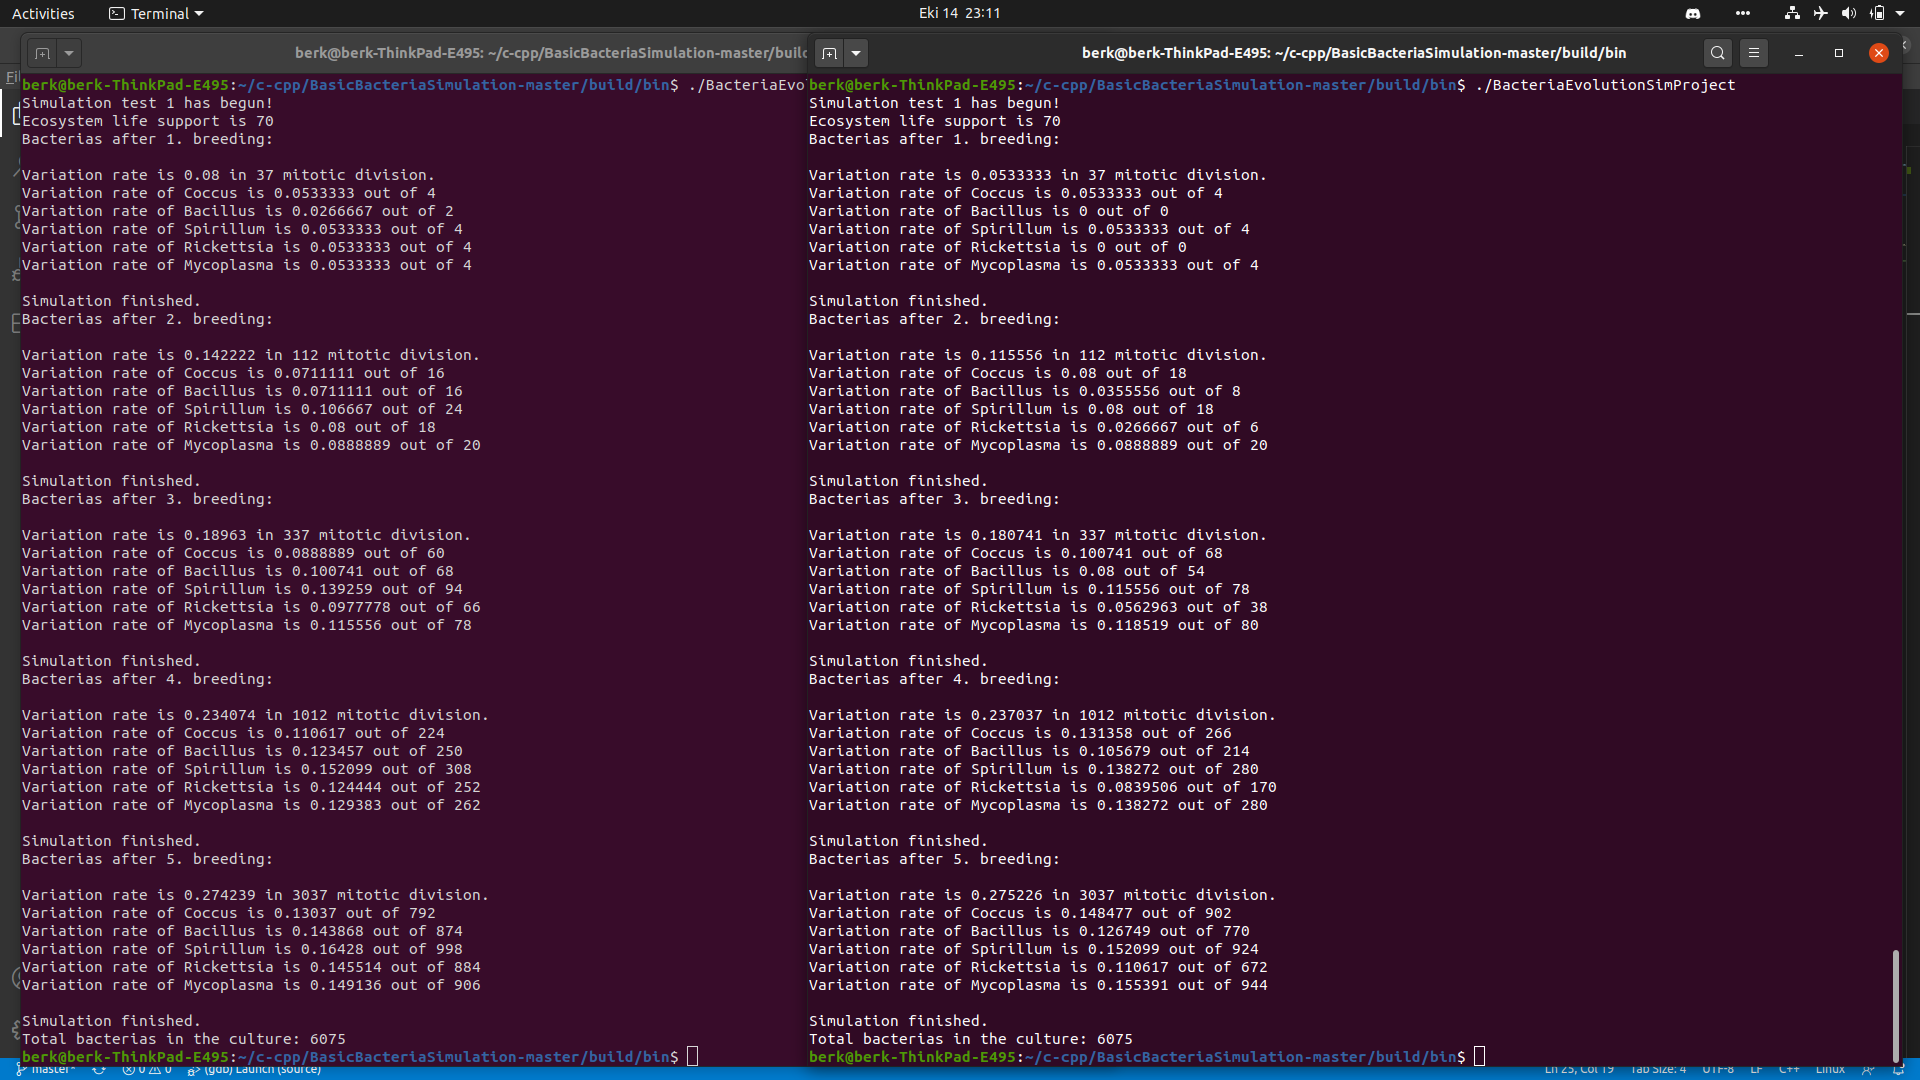
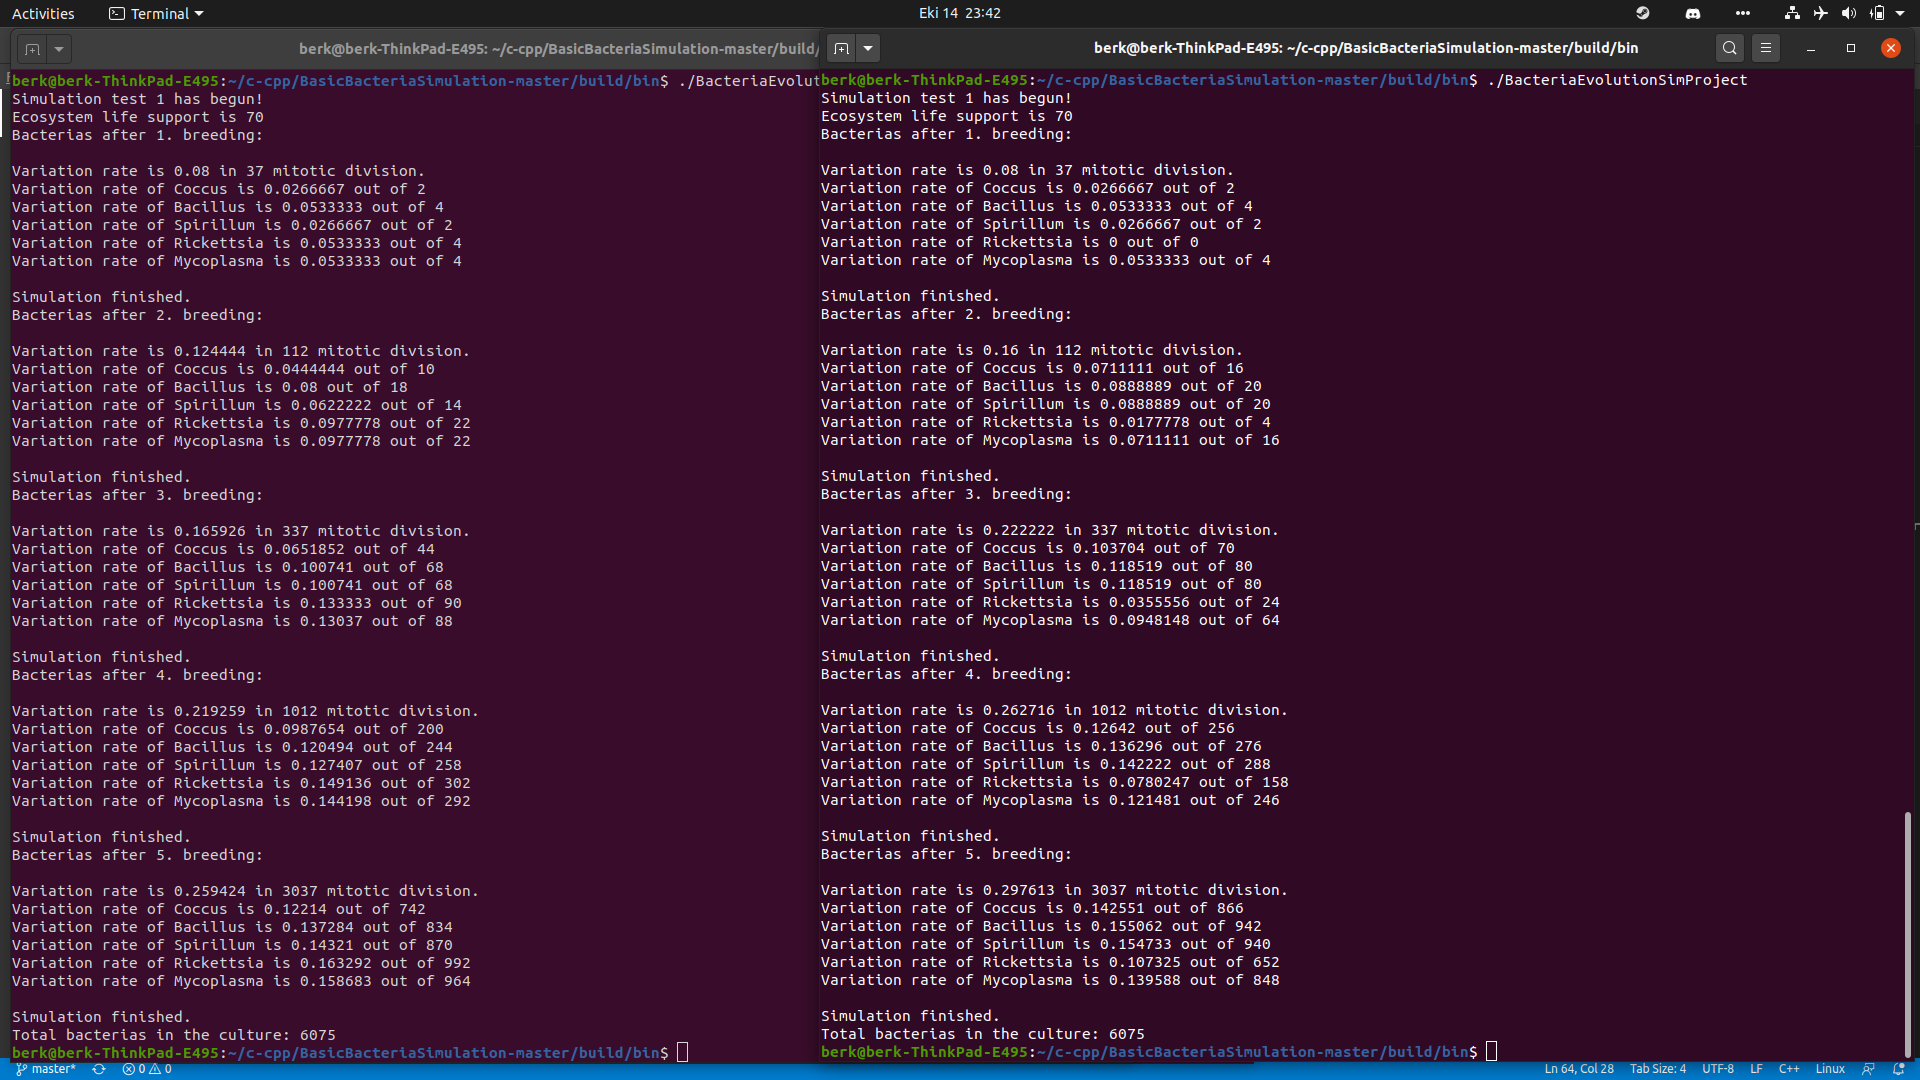
new bacterias included

Changed region(s): [[0.0, 0.0306, 1.0, 1.0]]

diff --git a/source/BeginSimulation.cpp b/source/BeginSimulation.cpp
@@ -31,12 +31,18 @@ void BeginSimulation::fabrication() {
 	srand((unsigned)time(0));
 	int numberofDivisionedBacterias = 0;
 	std::vector<Bacteria> tempBacterias;
-	double survivalpoints[5];
+	double survivalpoints[5];  // since we have 5 bacteria species..
 	std::string xample1 = bacterias.at(0).getbacteriaType();
 	std::string xample2 = bacterias.at(1).getbacteriaType();
+	std::string xample3 = bacterias.at(2).getbacteriaType();
+	std::string xample4 = bacterias.at(3).getbacteriaType();
+	std::string xample5 = bacterias.at(4).getbacteriaType();
 		if(xample1.compare(xample2)!=0){
                survivalpoints[0]= bacterias.at(0).getSurvivalPoint();
 			   survivalpoints[1]= bacterias.at(1).getSurvivalPoint();
+			   survivalpoints[2]= bacterias.at(2).getSurvivalPoint();
+			   survivalpoints[3]= bacterias.at(3).getSurvivalPoint();
+			   survivalpoints[4]= bacterias.at(4).getSurvivalPoint();
 		}
 	
 	for (std::vector<Bacteria>::iterator it = bacterias.begin(); it != bacterias.end(); it++) {
@@ -56,6 +62,7 @@ void BeginSimulation::fabrication() {
 		}
 		Bacteria fabricatedBacteria=*it; 
 		fabricatedBacteria.duplicatingCODE(copyCode);  // mitotic divisioned bacteria is added to the environment.
+
 		if(it->getbacteriaType().compare(xample1)){
 			int divisions = survivalpoints[0]/90;
 			for(int i=0;i<divisions;i++){
@@ -65,7 +72,22 @@ void BeginSimulation::fabrication() {
 			int divisions = survivalpoints[1]/90;
 			for(int i=0;i<divisions;i++){
              tempBacterias.push_back(fabricatedBacteria);}
-		}		
+		}
+		else if(it->getbacteriaType().compare(xample3)){
+			int divisions = survivalpoints[2]/90;
+			for(int i=0;i<divisions;i++){
+             tempBacterias.push_back(fabricatedBacteria);}
+		}
+		else if(it->getbacteriaType().compare(xample4)){
+			int divisions = survivalpoints[3]/90;
+			for(int i=0;i<divisions;i++){
+             tempBacterias.push_back(fabricatedBacteria);}
+		}
+		else if(it->getbacteriaType().compare(xample5)){
+			int divisions = survivalpoints[4]/90;
+			for(int i=0;i<divisions;i++){
+             tempBacterias.push_back(fabricatedBacteria);}
+		}								
 			
 	}
 	for (std::vector<Bacteria>::iterator it = tempBacterias.begin(); it != tempBacterias.end(); it++) {

diff --git a/README.md b/README.md
@@ -31,5 +31,7 @@ It'd be more complicated than written here...
 ![Enc1](https://github.com/trantor00/BasicBacteriaSimulation/blob/master/screenshots/test1.png)
 #### Test2
 ![Enc1](https://github.com/trantor00/BasicBacteriaSimulation/blob/master/screenshots/test2.png)
+#### Test3
+![Enc1](https://github.com/trantor00/BasicBacteriaSimulation/blob/master/screenshots/test3.png)
 
 
